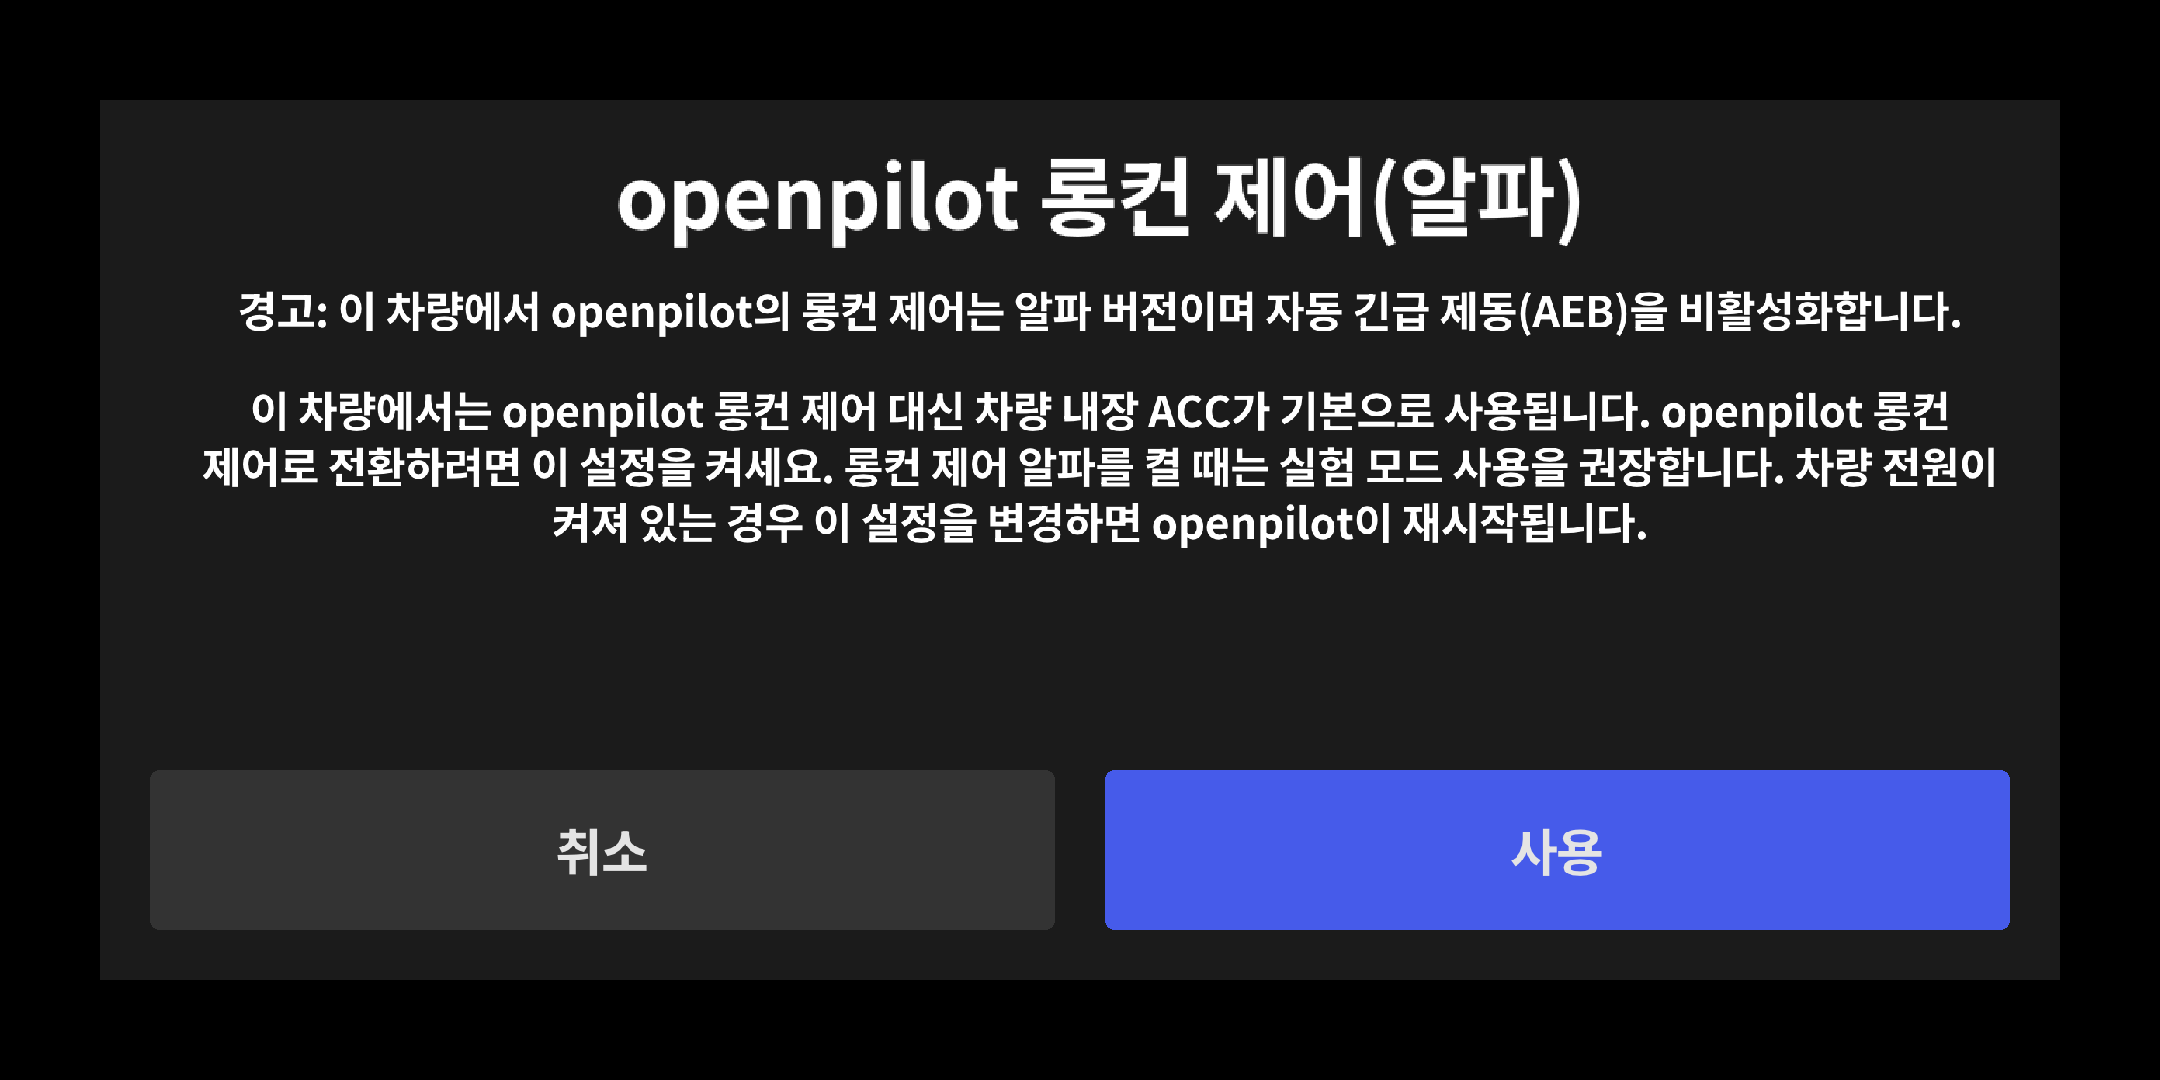
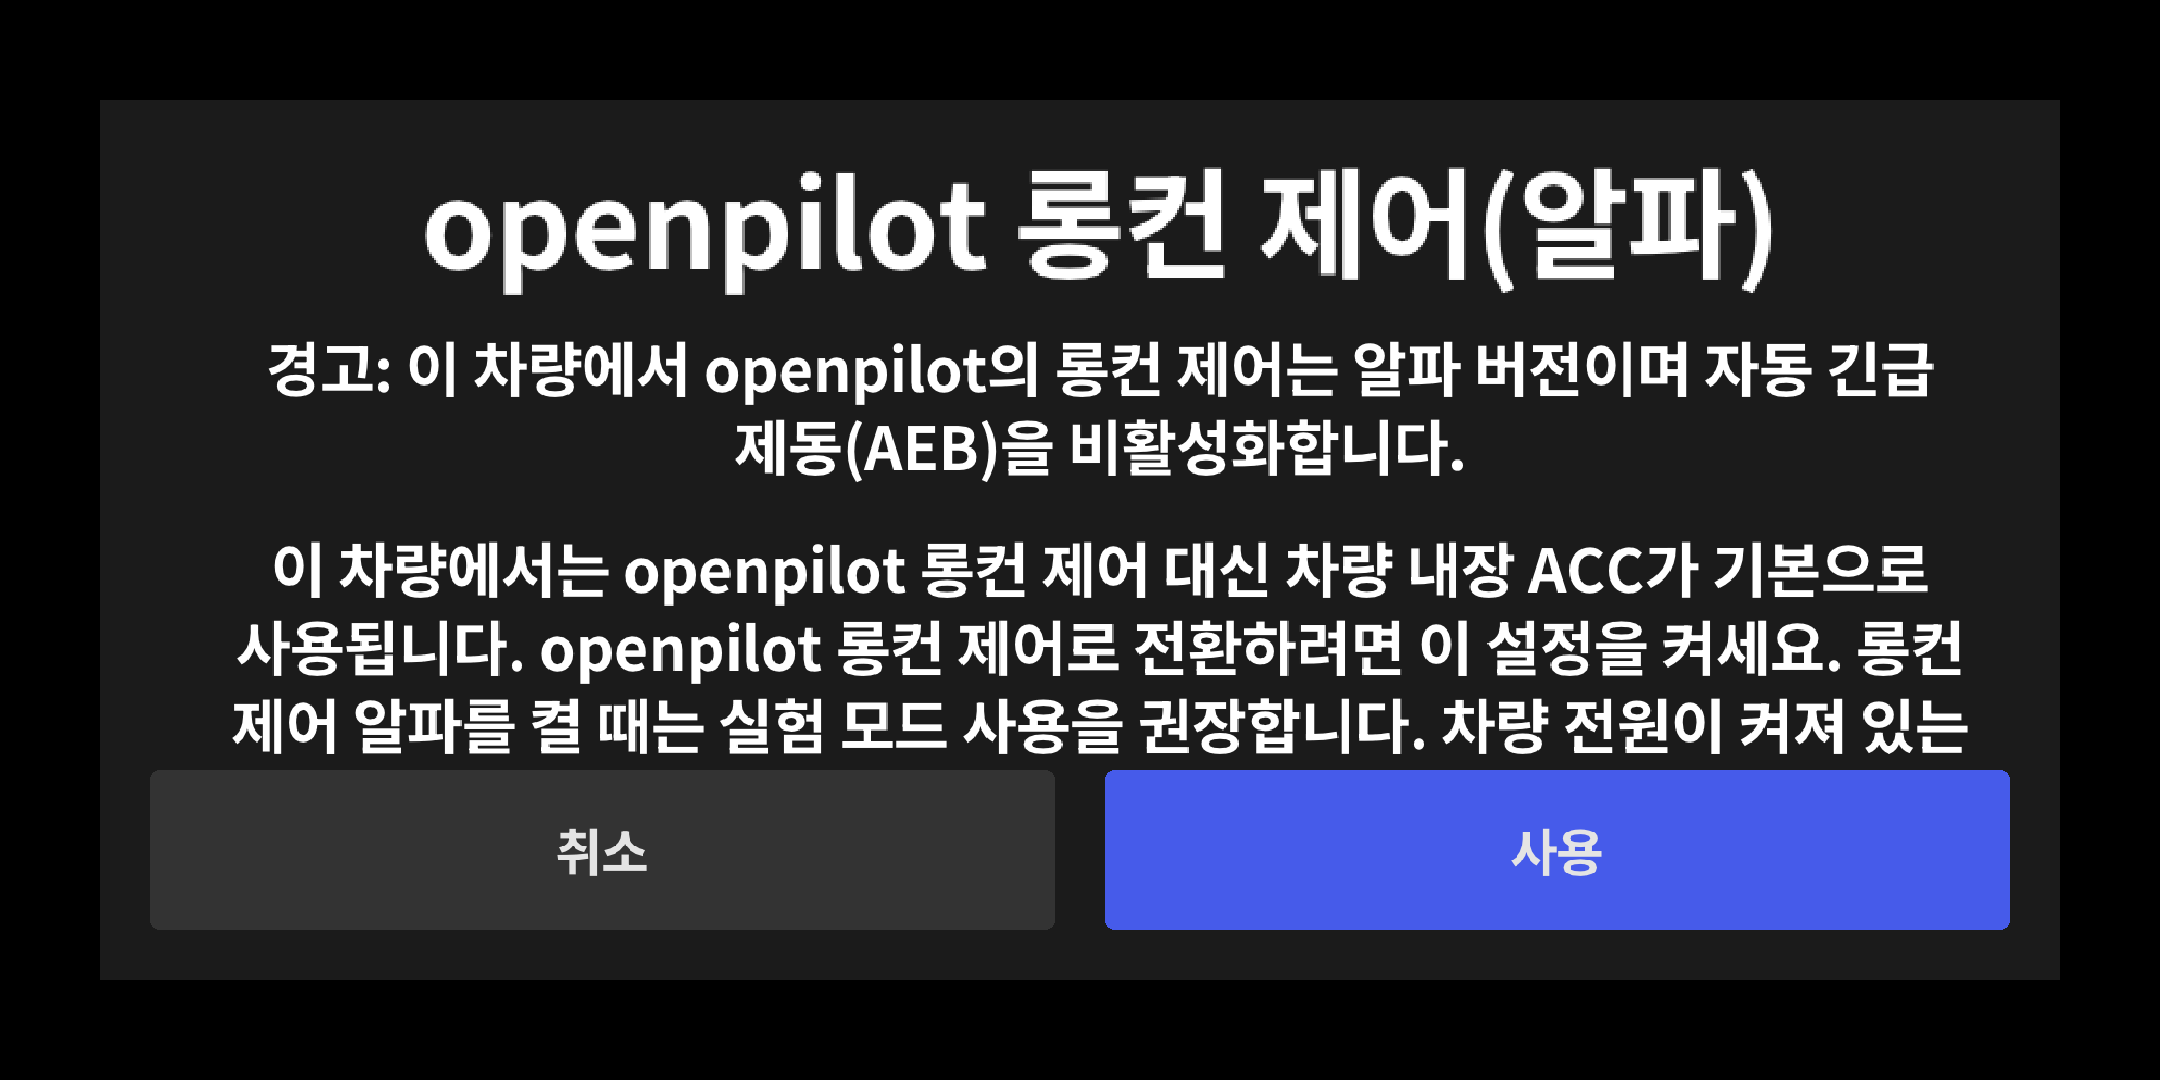
raylib screenshots for commit aa58d3d on master_cr

Changed region(s): [[0.0931, 0.1222, 0.9306, 0.7028]]

diff --git a/README.md b/README.md
@@ -1,4 +1,4 @@
-# Raylib UI Screenshots: ab3951a
+# Raylib UI Screenshots: aa58d3d
 This branch is automatically updated with raylib screenshots from the `master_cr` branch of `crwusiz/openpilot`.
 
 ## Latest Screenshots
